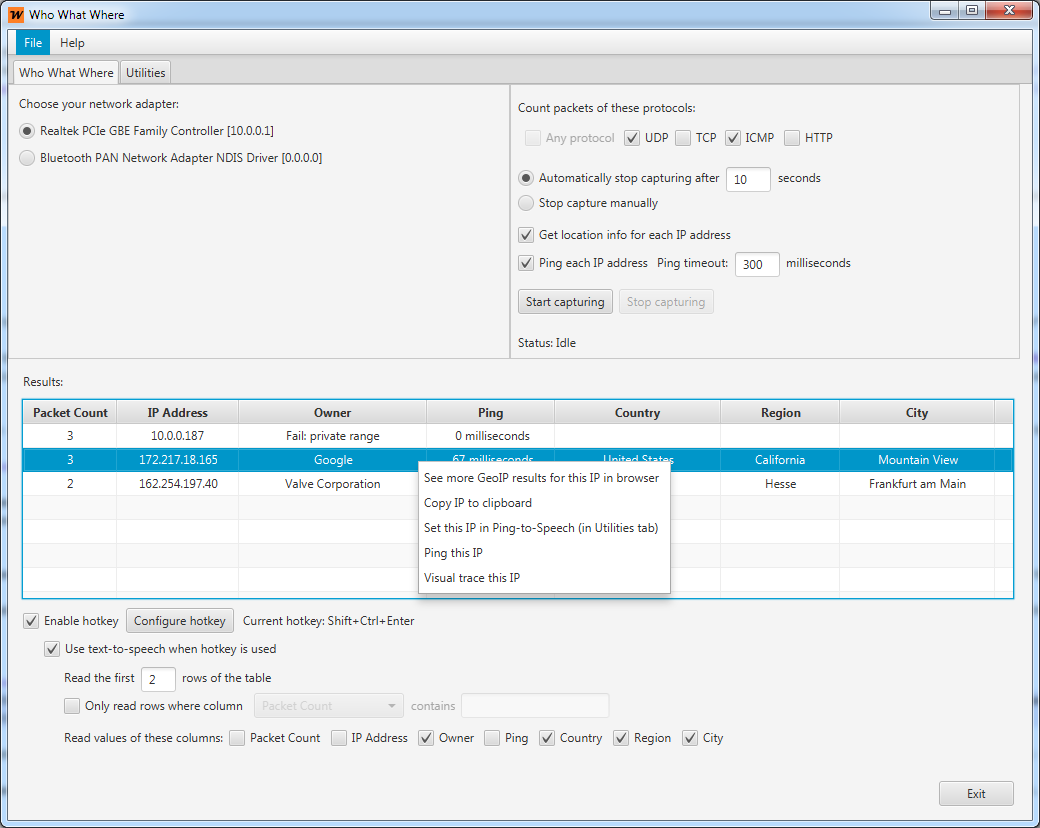
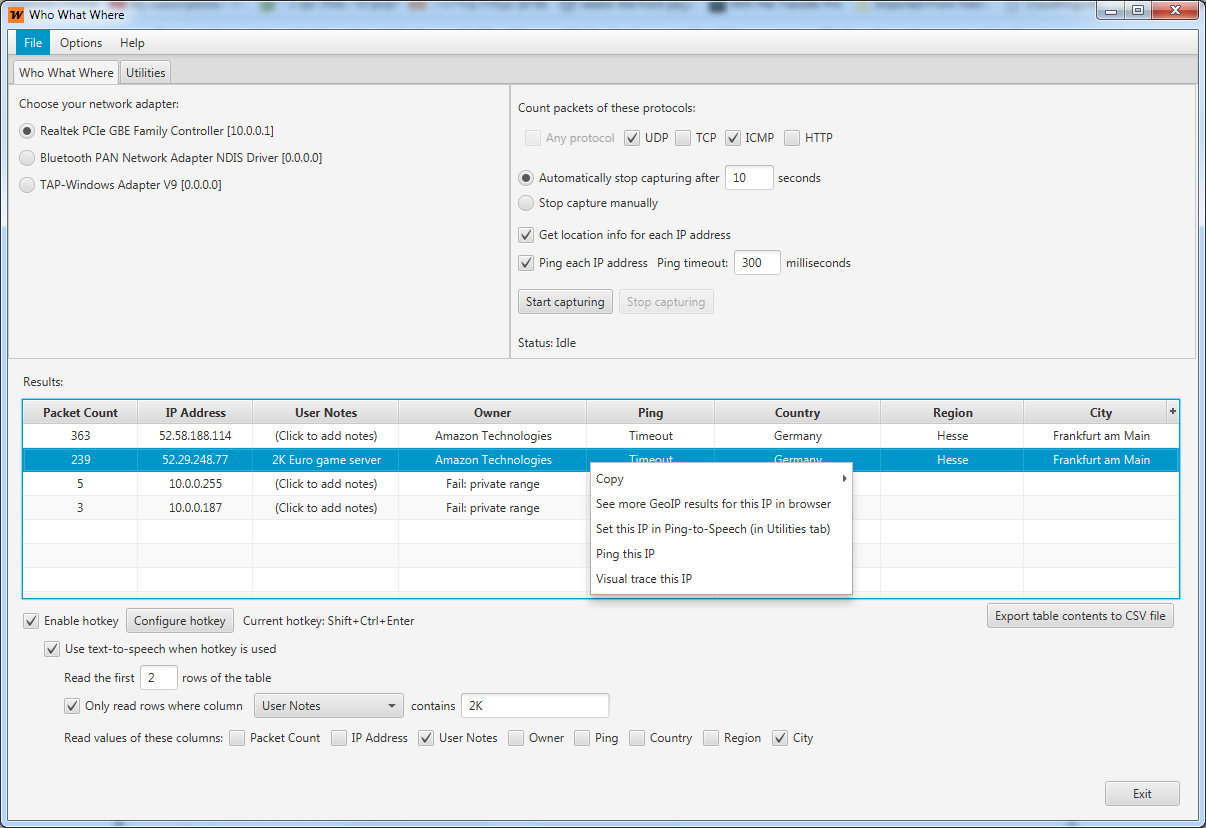
Updates for the new features in 1.10

diff --git a/index.html b/index.html
@@ -19,7 +19,7 @@
 			<h1>Who What Where</h1>
 		</div>
 
-		<p><strong>Analyze your network traffic to find what IP addresses are used and where they're from. Additional utilities include Ping-to-Speech, Visual Trace, and Watchdog that monitors incoming packets.</strong></p>
+		<p><strong>Analyze your network traffic to find what IP addresses are used and where they're from. Additional utilities include Ping-to-Speech, Visual Trace, and Watchdog that notifies when a pre-defined type of packet is sent or received.</strong></p>
 
 		<div class="links">
 			<a href="https://github.com/ck3ck3/WhoWhatWhere/releases">Download Here</a>
@@ -44,8 +44,9 @@
 
 	      <li>
 	      	<h2><a class="imgLink" href="http://ck3ck3.github.io/WhoWhatWhere/screenshots/Watchdog.png">Watchdog</a></h2>
-	      	<p>Inspects network traffic and waits for a packet from a predefined list of IP addresses and source/destination ports and several protocols. Upon finding a match, a predefined message will be read out by text-to-speech. This feature can be used as
-	        a notifier for an incoming connection, for example.</p>
+			<p>Inspects network traffic and checks if any packet matches a predefined filter. Filters include packet direction (incoming/outgoing), IP address or ranges (subnets), user notes, packet size (including ranges) and source/destination ports ranges. Upon finding a match, a predefined message will be read out by text-to-speech or displayed in a pop-up message.
+			<br>This feature can be used as a notifier for an incoming connection, for example.
+			</p>
 	      </li>
 
 	      <li>
@@ -79,11 +80,11 @@
 
 
 	    <h2>How to Use</h2> 
-	    <p>Who What Where can be minimized to the systrem tray by pressing the 'x' (close window) button. In order to exit for the program, press the Exit button or use the menu bar "File".
+	    <p>Who What Where can be minimized to the systrem tray by pressing the 'x' (close window) button. In order to exit for the program, press the Exit button or right-click the icon in the system-tray and choose "Exit".</p>
 
 	    <h3>Pick your network adapter: </h3> 
 	    <p>In the top-left pane there should be a list with at least one network adapter (<a class="imgLink" href="http://ck3ck3.github.io/WhoWhatWhere/screenshots/NetworkAdapter.png">example</a>). Select the adapter your want to listen to. If you're not
-	    sure which one to choose (the name would often have "ethernet" or "wireless" in it), just try and see which one works.
+	    sure which one to choose (the name would often have "ethernet" or "wireless" in it), just try and see which one works.</p>
 
 	    <h3>Who What Where</h3> 
 	    <p>Who What Where listens to (aka "captures") your internet traffic and shows you which IP addresses were contacted, as well as some additional info such as ping time and geographical location of the IP address. Set your preferred settings, start and
@@ -91,33 +92,37 @@
 		<br><br>
 	    <a class="imgLink" href="http://ck3ck3.github.io/WhoWhatWhere/screenshots/CaptureOptions.png">Capture Options:</a>
 	    <ul>
-	      <li><p>Protocol selection: If no protocol is selected, then all protocols will be counted. Otherwise, only packets of the selected protocols will be counted.</li>
-	      <li><p>Automatically/manually stop capture: Choose if you'd like to stop the capture yourself, or let it stop automatically after a certain amount of time.</li>
+	      <li><p>Protocol selection: If no protocol is selected, then all protocols will be counted. Otherwise, only packets of the selected protocols will be counted.</p></li>
+	      <li><p>Automatically/manually stop capture: Choose if you'd like to stop the capture yourself, or let it stop automatically after a certain amount of time.</p></li>
 	      <li><p>Extra information:
 
-	        <i>Get location info for each IP address</i> - If checked, every IP address entry will also show its geographical location information (see <a href="#GeoIPLimitations">limitations</a>). If unchecked, the results will be displayed a bit quicker.
+	        <br><i>Get location info for each IP address</i> - If checked, every IP address entry will also show its geographical location information (see <a href="#GeoIPLimitations">limitations</a>). If unchecked, the results will be displayed a bit quicker.
 
-	        <i>Ping each IP address</i> - If checked, each IP address entry will also show the ping result to that IP. There is also a configurable timeout. If unchecked, the results will be displayed a bit quicker.
+	        <br><i>Ping each IP address</i> - If checked, each IP address entry will also show the ping result to that IP. There is also a configurable timeout. If unchecked, the results will be displayed a bit quicker.</p>
 	      </li>
 	    </ul>
 
-	    <p><strong>Right-clicking on a result in the table</strong> opens a <a class="imgLink" href="http://ck3ck3.github.io/WhoWhatWhere/screenshots/TableRightClick.png">pop-up menu</a> with several options: "See more GeoIP results in the browser" loads a GeoIP service
+	    <a class="imgLink" href="http://ck3ck3.github.io/WhoWhatWhere/screenshots/TableRightClick.png">Right-clicking on a result in the table opens a pop-up menu</a> with several options: "See more GeoIP results in the browser" loads a GeoIP service
 	    results in the default web-browser. This site might have more (or different) results than what's shown in the table. See <a href="#GeoIPLimitations">GeoIP Limitations</a>.
-
+		<br><br>
+		<a class="imgLink" href="http://ck3ck3.github.io/WhoWhatWhere/screenshots/UserNotesWWW.png">User notes:</a> Allows users to associate notes with IP addresses. Either add a note from the results table by clicking the user notes cell on a row, or manage all of the user notes from the menu "File" -> "Manage user notes". 
+		<br>User notes can help remember what's the IP address used for, and can also be used as a filter in Watchdog.
 		<br><br>
 	    <a class="imgLink" href="http://ck3ck3.github.io/WhoWhatWhere/screenshots/HotkeyOptions.png">Hotkey and Text-To-Speech Options:</a> Instead of manually pressing the start/stop buttons, you can use a hotkey. The hotkey is active globally, meaning
 	    you can press it while using any other application and even when Who What Where is minimized to the system tray. If a capture is running, the hotkey will stop it. Otherwise, it will start a new capture. If the text-to-speech feature is enabled and
 	    you use the hotkey to start or stop the capture, the results will be read out ot you - so you don't have the look at the application screen. This is useful when you already know what you're looking for. You can also filter out what is read to you,
 	    the first X rows or only rows that contain a certain value in a certain column. You can also select which column values to read out.
-
+		</p>
 
 	    <h3>Ping to Speech</h3> <p>Put in any IP or hostname, and press the hotkey. The ping result will be read out. The hotkey is configurable, and the default one (Ctrl+NumPad 0) requires the numlock on your keyboard to be on.
 
 
-	    <h3>Watchdog</h3> <p>Watchdog listens to your network traffic and informs you when a packet arrives from a certain IP/port/protocol. Click "Manage match list" to add entries to the list, or load an existing preset. After clicking "Done", write a message to read out when
-	    a match from the list is found. You can preview the message with the preview button. Once the list and message are set, click "Start waiting for match" or press the hotkey. The default hotkey (Ctrl+NumPad 1) requires the numlock on your keyboard to
-	    be on.
-
+	    <h3>Watchdog</h3> <p>Watchdog listens to your network traffic and informs you when a packet matches a certain filter that you set. You can set filters based on packet direction (incoming/outgoing), IP address or ranges (subnets), user notes, packet size (including ranges) and source/destination ports ranges.
+		<br>Click "Manage match list" to add entries to the filters list, or load a saved preset. When a match is found, the message you wrote for that filter will be read out by text-to-speech or displayed as a pop-up on the screen, according to your selection. Once the filters and messages are set, press Done.
+		<br>Select a radiobutton to indicate if Watchdog should just wait for the first packet of this type and inform you, or keep watching for these packets until you stop it. If you choose to keep looking for matches, specify
+		a cooldown period. A cooldown period is the minimal amount of time between getting a Watchdog alert, its purpose is to avoid flooding you with messages. Minimal cooldown period is 3 seconds.
+		<br>To start the Watchdog, click "Start waiting for match" or press the hotkey. The default hotkey (Ctrl+NumPad 1) requires the numlock on your keyboard to be on.
+		</p>
 	    <h3>Visual Trace</h3> <p>Put in any IP or hostname, and click "Trace". A trace window opens, where you can configure a ping timeout and whether or not to resolve hostnames. Click "Start trace" and wait for the trace to <a class="imgLink" href="http://ck3ck3.github.io/WhoWhatWhere/screenshots/Trace.png">complete</a>.
 	    Then click "Show visual trace". In the <a class="imgLink" href="http://ck3ck3.github.io/WhoWhatWhere/screenshots/VisualTrace.png">Visual Trace screen</a> you can check/uncheck any hop on the route and see the changes on the map. You can also
 	    click "Focus map here" to see the exact location of the hop zoomed in, or you can click "GeoIP Info" to view info from another GeoIP source on your default browser.
